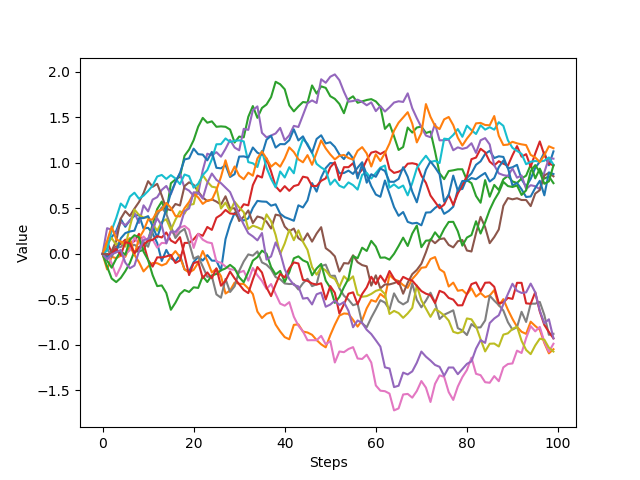
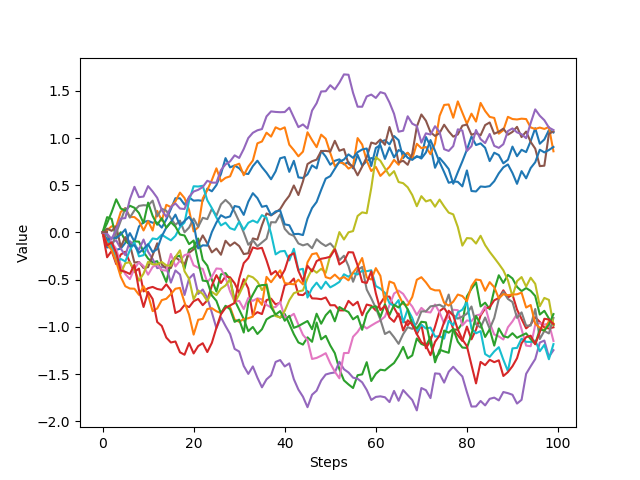
wat

diff --git a/Excersises/Assignment_1.py b/Excersises/Assignment_1.py
@@ -4,6 +4,10 @@ import numpy as np
 from mnist import MNIST
 from scipy.optimize import minimize
 import matplotlib.pyplot as plt
+import time
+import cProfile
+
+
 
 mndata = MNIST('samples')
 images, labels = mndata.load_training()
@@ -16,6 +20,7 @@ data = data[(data[:,-1] == 3) | (data[:,-1] == 7)]
 data[:,-1][data[:,-1]==3]=0
 data[:,-1][data[:,-1]==7]=1
 
+
 test_images, test_labels = mndata.load_testing()
 test_images = np.array(test_images)/255
 test_bias = np.ones(test_images[:,0].shape)
@@ -26,7 +31,9 @@ test_data = test_data[(test_data[:,-1] == 3) | (test_data[:,-1] == 7)]
 test_data[:,-1][test_data[:,-1]==3]=0
 test_data[:,-1][test_data[:,-1]==7]=1
 
+data = data[:test_data[:,0].size]
 
+print(data.shape)
 
 
 #labels = labels[labels == 3 or labels ==7]
@@ -38,12 +45,12 @@ class Gradient_Descent():
         self.pixels = 785
         self.test_data = test_data
         self.data = data
-        self.weights = np.random.normal(scale=1,size=self.pixels) #sigma = 0.1, so the argument of the sigmoid function does not too big
+        self.weights = np.random.normal(scale=1,size=self.pixels)
         self.batch_size = self.data[:, 1].size
         self.batch_size = batch_size if batch_size != 0 else self.batch_size
         self.probabilities = np.zeros(self.batch_size)
-        self.learning_rate = 0.1
-        self.momentum_term = 0.2
+        self.learning_rate = 0.5
+        self.momentum_term = 0.6
         self.weight_decay_rate = 0.1
         self.previous_gradients = np.ones(self.pixels)
         self.deltas = np.ones(self.pixels)
@@ -54,26 +61,34 @@ class Gradient_Descent():
         self.batch_indices = np.arange(self.data[:,1].size)
         self.line_search = line_search
         self.conjugate = conjugate
+
+        self.mapping = np.vectorize(self.sigmoid)
+        self.limitMapping = np.vectorize(self.limit_propbs)
+        self.minValue = 1e-10
+        self.maxValue = 1 - self.minValue
+        self.division = 1 / self.batch_size
         if conjugate:
             self.line_search = True
 
     def limit_propbs(self, prob):
-        minValue = 1e-10
-        maxValue = 1-minValue
-        return min(max(minValue,prob),maxValue)
 
-    @staticmethod
-    def sigmoid(x):
-        return 1 / (1 + np.exp(-1*x))
+        return min(max(self.minValue,prob),self.maxValue)
+
+
+
+    def sigmoid(self,x):
+        return 1 / (1 + np.exp(-min(max(self.minValue,x),self.maxValue)))
 
     def calc_prop(self,x=None, is_test = False):
         prop_data = self.data if not is_test else self.test_data
         if x is None:
             x = self.weights
-        mapping = np.vectorize(self.sigmoid)
-        self.probabilities = mapping(np.dot(prop_data[self.batch_indices,:-1],x))
-        limitMapping = np.vectorize(self.limit_propbs)
-        return limitMapping(self.probabilities)
+        #self.probabilities = self.limitMapping(self.mapping(np.dot(prop_data[self.batch_indices,:-1],x)))
+
+        if self.newton:
+            x = self.limitMapping(x)
+        self.probabilities = 1 / (1 + np.exp(-np.dot(prop_data[self.batch_indices, :-1], x)))
+        return self.probabilities
 
     def calc_error(self,probs):
         error = self.data[:,-1]*np.log(probs) + (1-self.data[:,-1])*np.log(1-probs)
@@ -88,12 +103,12 @@ class Gradient_Descent():
         self.batch_indices = np.arange(error_data[:,1].size)
         probs = self.calc_prop(is_test = is_test)
         error = error_data[:, -1] * np.log(probs) + (1 - error_data[:, -1]) * np.log(1 - probs)
-        if self.decay:
-            error += (self.weight_decay_rate / (2 * self.batch_size)) * np.sum(self.weights**2)
+        # if self.decay:
+        #     error += (self.weight_decay_rate / (2 * self.batch_size)) * np.sum(self.weights**2)
         return (-1 / error_data[:,1].size) * np.sum(error)
 
     def gradient(self):
-        gradients = 1 / self.batch_size * np.dot((self.probabilities - self.data[self.batch_indices, -1]), self.data[self.batch_indices, :-1])
+        gradients = self.division * np.dot((self.probabilities - self.data[self.batch_indices, -1]), self.data[self.batch_indices, :-1])
         if self.decay or self.newton:
             gradients += (self.weight_decay_rate / self.batch_size) * self.weights
         if self.line_search:
@@ -107,8 +122,8 @@ class Gradient_Descent():
         return gradients
 
     def calculate_hessian(self):
-        hessian = np.dot(np.multiply(self.probabilities*(1-self.probabilities),self.data[:,:-1].T),self.data[:,:-1])
-        return np.linalg.inv(1 / self.batch_size * hessian + np.identity(self.pixels) * (self.weight_decay_rate / self.batch_size))
+        hessian = np.dot(np.dot(self.probabilities*(1-self.probabilities),self.data[:,:-1]),self.data[:,:-1].T)
+        return np.linalg.inv(self.division * hessian + np.identity(self.pixels) * (self.weight_decay_rate / self.batch_size))
 
     def update_weights(self):
         if self.momentum:
@@ -154,34 +169,48 @@ class Gradient_Descent():
     def prepare_iteration(self):
         self.batch_indices = np.arange(self.data[:, 1].size)
 
+def main():
+    train = []
+    test = []
+    iterations = []
+    if __name__ == '__main__':
+        Test = Gradient_Descent(data, test_data, False, False, True, False, False, 0)
+        # Test.run_iteration()
+        # print(Test.line_search_error(0.1))
+        start = time.time()
+        for i in range(50):
+            Test.run_iteration()
+            #if i%100 == 0 and i > 1:
+            if True:
+                print(i)
 
-train = []
-test = []
-iterations = []
+                print("Train loss, test loss")
+                print(Test.calc_error_for_eval(False))
+                print(Test.calc_error_for_eval(True))
+                train.append(Test.calc_error_for_eval(False))
+                test.append(Test.calc_error_for_eval(True))
+                iterations.append(i)
+        end = time.time()
+        print("Train class error, Test Class errror")
+        print(Test.calc_classification_error(False))
+        print(Test.calc_classification_error(True))
+        setting = "Newton"
+        name = setting + "learning_rate-" + str(Test.learning_rate) + str(Test.momentum_term)
+        print(name)
+        # print(Test.learning_rate,Test.momentum_term)
+    fig = plt.figure()
+    ax1 = fig.add_subplot(111)
+
+    ax1.plot(iterations, train, color='black', label='Training Error')
+    ax1.plot(iterations, test, color='green', label='Test Error')
+    plt.title(setting + " - Time Elapsed: " + str(round(end - start, 2)))
+    plt.ylabel("Error")
+    plt.xlabel("Number of Iterations")
+
+    plt.legend()
+    # plt.savefig(name)
+    plt.show()
+
 if __name__ == '__main__':
-    Test = Gradient_Descent(data,test_data,False,False,False,False,False,0)
-    i = 0
-    # Test.run_iteration()
-    # print(Test.line_search_error(0.1))
-
-    for i in range(30000):
-        Test.run_iteration()
-        if i%100 == 0 and i > 1:
-            print(i)
-            print("Train class error, Test Class errror")
-            print(Test.calc_classification_error(False))
-            print(Test.calc_classification_error(True))
-            print("Train loss, test loss")
-            print(Test.calc_error_for_eval(False))
-            train.append(Test.calc_error_for_eval(False))
-            test.append(Test.calc_error_for_eval(True))
-            iterations.append(i)
-
-fig = plt.figure()
-ax1 = fig.add_subplot(111)
-
-ax1.plot(iterations, train, color='black', label='Training Error')
-ax1.plot(iterations, test, color='green', label='Test Error')
-
-plt.legend()
-plt.show()
+    #cProfile.run('main()',sort='cumtime')
+    main()

diff --git a/Excersises/Exercise 4-3.py b/Excersises/Exercise 4-3.py
@@ -3,7 +3,7 @@ import matplotlib.pyplot as plt
 
 
 x0 = 0
-v = 0.02
+v = 0.1
 
 
 def dx(u,dt):
